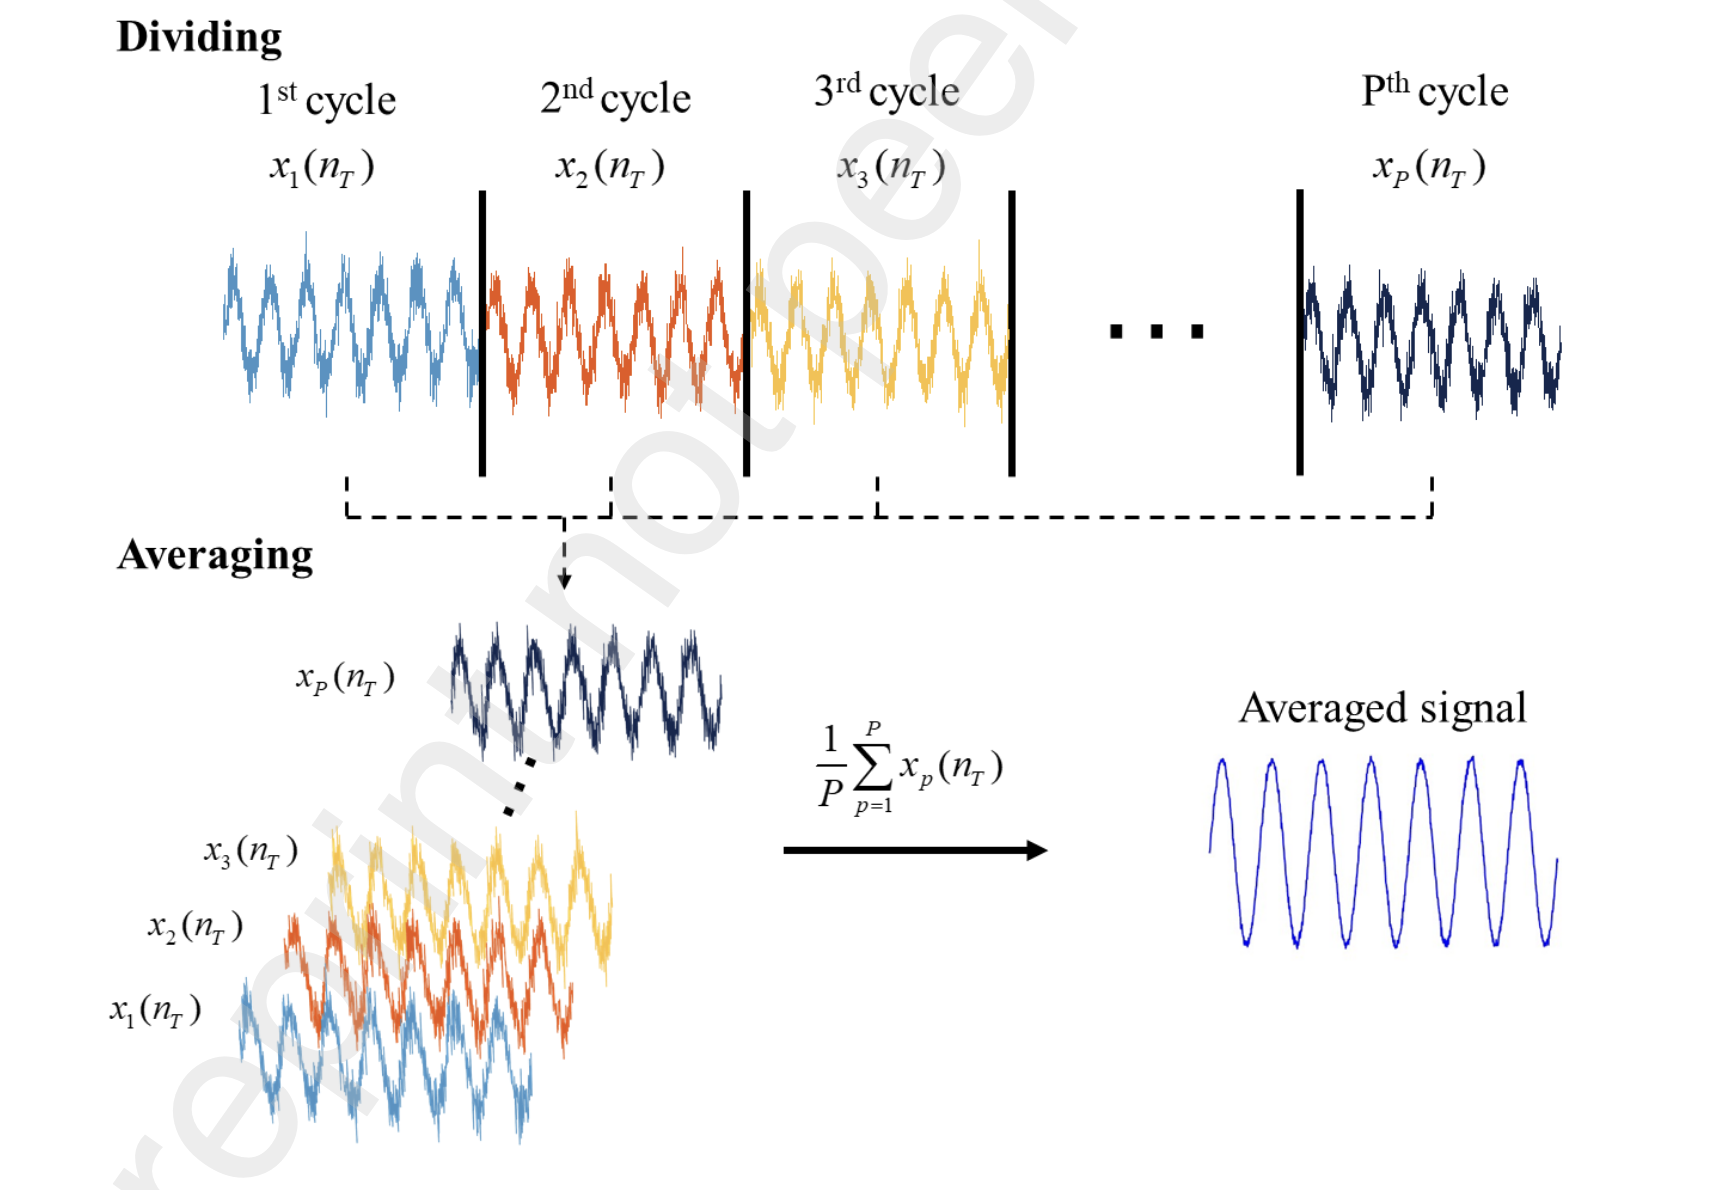
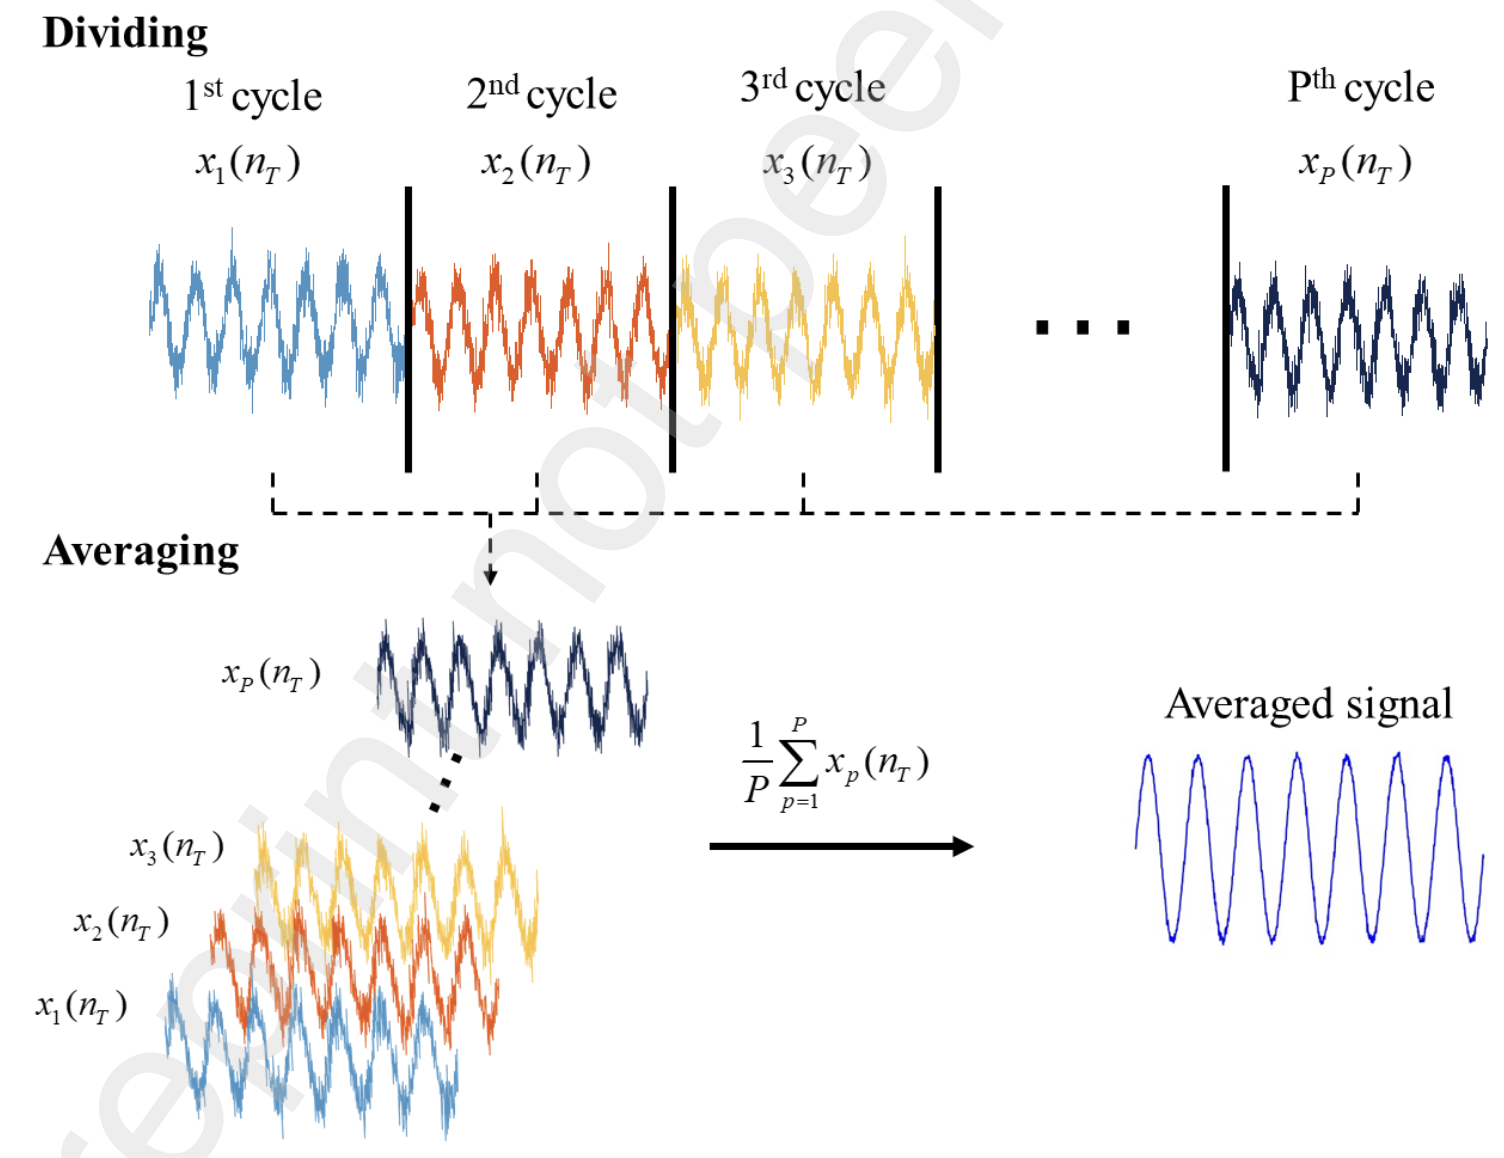
WSLA

diff --git a/WSLA/WSLA.md b/WSLA/WSLA.md
@@ -35,6 +35,23 @@ style: |
 
 ## **1.背景与研究意义**
 - 研究问题
-齿轮箱是旋转机械的重要部件，其故障会导致严重的机械失效。振动信号是诊断齿轮箱故障的主要依据，但这些信号通常受到强背景噪声和其他设备的脉冲干扰，导致传统方法（时间同步平均，TSA）提取的周期信号不够准确。\
-- TAS的局限
+齿轮箱是旋转机械的重要部件，其故障会导致严重的机械失效。振动信号是诊断齿轮箱故障的主要依据，但这些信号通常受到强背景噪声和其他设备的脉冲干扰，导致传统方法（时间同步平均，TSA）提取的周期信号不够准确。
+- TAS
+将输入信号按旋转周期分割成多个等长段。
+对这些段信号逐点求平均。
+随着段数增加，噪声幅度减小，周期信号被增强。
+
+- 局限
+周期有限时，降噪效果受限
+信号中存在周期性强脉冲干扰，TAS会保留，对只有白噪声的干扰降噪效果比较明显
+
+
+![bg w:650 left:50% ](https://github.com/TATAROSE2119/markdown_PPT/blob/main2/WSLA/img/image.png?raw=true)
+
+---
+
+## **2.论文核心方法WSLA**
+- 1.采样信号预处理
+采集振动信号和转速信号。
+使用计算阶次跟踪（COT）将时域信号重采样为角域信号，确保各段信号同步。
 
